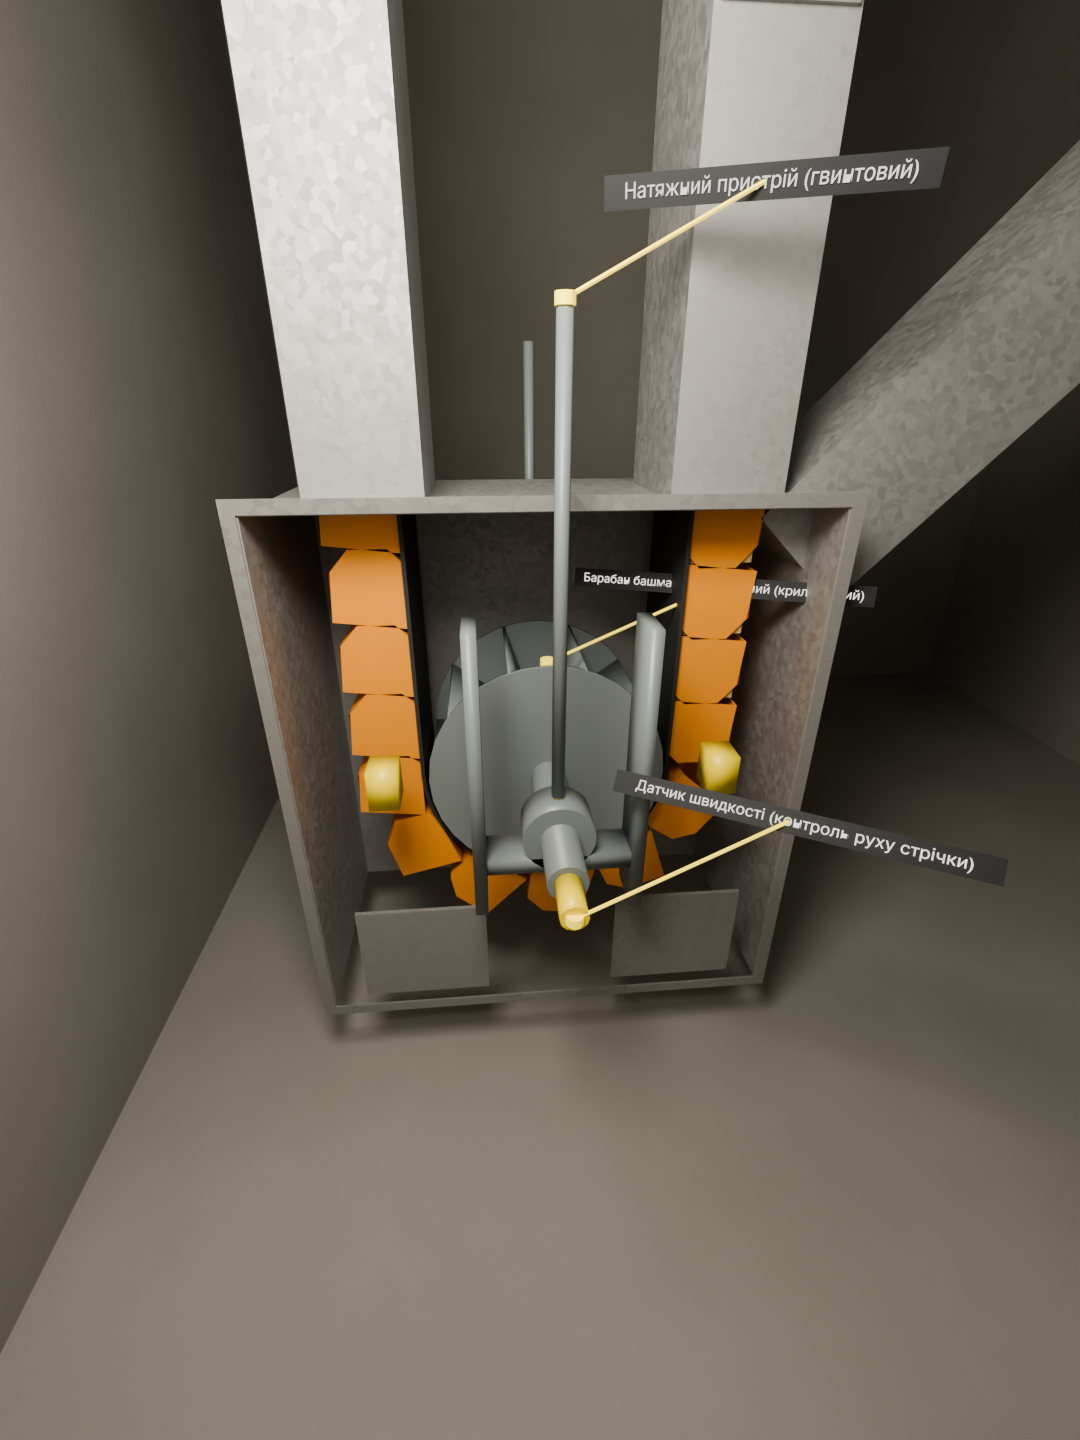
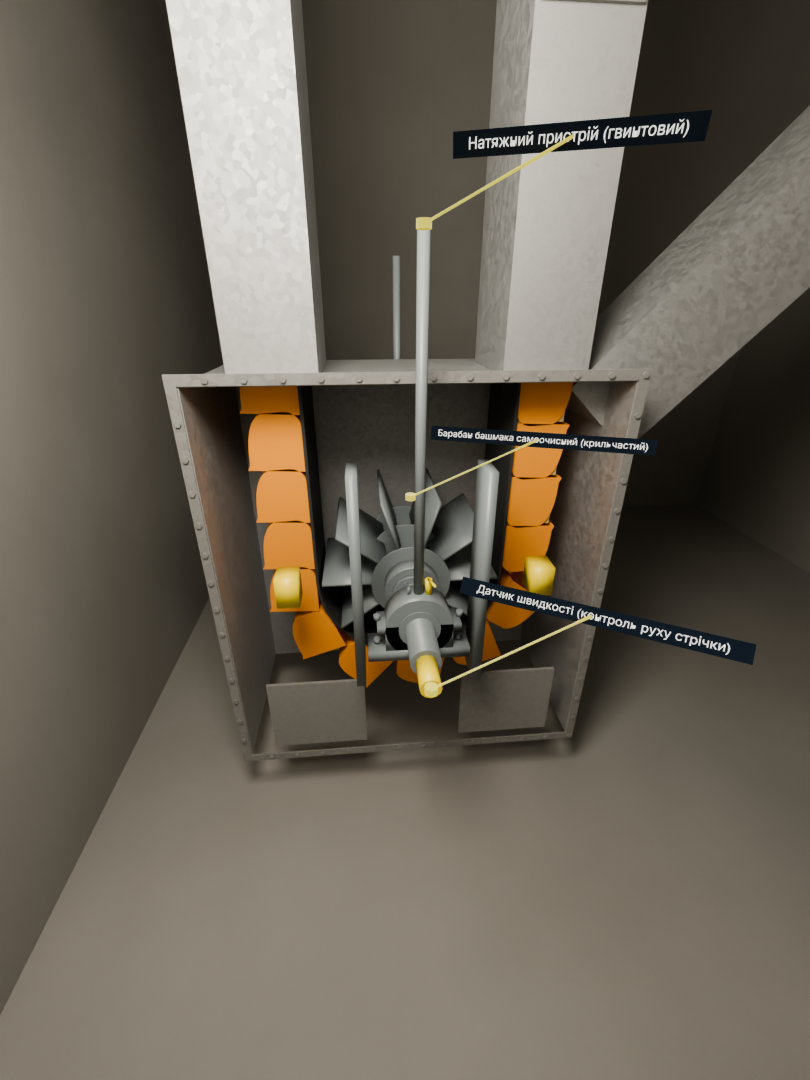
Noria detail pass: real bucket profile, hubs, plummer blocks, cover bolts, labels on top
Buckets get a CC-style profile (back, 50 mm bottom radius, sloped front,
rolled lip, 4 mm wall) with fang bolts; pulleys get end discs, hubs and
taper-lock bolts, the tail pulley a spider so the wings show; bearings
become split plummer blocks with feet, cap bolts, seals, grease nipple
and a cabled temperature sensor; M10 bolts ring the removable covers.
Labels are laid out in screen space and rendered in a second pass over
the frame, so geometry never hides them.

Claude-Session: https://claude.ai/code/session_01MY6Bgt3JVrL6PwgWiiCYXr

diff --git a/world/kit/noria_n100.py b/world/kit/noria_n100.py
@@ -31,7 +31,6 @@ BELT_R = PULLEY_R + LAGGING + BELT_T / 2          # belt centreline radius on th
 BUCKET_PITCH = 0.18
 BUCKET_W = 0.300
 BUCKET_T = 0.004
-BUCKET_PROFILE = np.array([(0.0, 0.19), (0.0, 0.03), (0.03, 0.0), (0.12, 0.0), (0.165, 0.05), (0.175, 0.17)])
 LEG_CLEAR_X = 0.256                               # across bucket projection
 LEG_CLEAR_Y = 0.376                               # across belt width
 LEG_SHEET = 0.002
@@ -110,27 +109,55 @@ def build_belt(path):
     return v, np.array(faces)
 
 
+def _bucket_profile(n_arc=8):
+    """Outer profile (u outward from the belt, v along travel) of a CC-style bucket:
+    straight back on the belt, radiused bottom, sloped front ending in a rolled lip."""
+    pts = [(0.0, 0.19), (0.0, 0.05)]
+    for a in np.linspace(math.pi, 1.5 * math.pi, n_arc)[1:]:                  # bottom radius 50 mm
+        pts.append((0.05 + 0.05 * math.cos(a), 0.05 + 0.05 * math.sin(a)))
+    p0, p1, p2 = np.array([0.10, 0.0]), np.array([0.172, 0.0]), np.array([0.172, 0.165])
+    for t in np.linspace(0, 1, n_arc)[1:]:                                     # sloped front
+        pts.append(tuple((1 - t) ** 2 * p0 + 2 * (1 - t) * t * p1 + t ** 2 * p2))
+    pts.append((0.180, 0.182))                                                  # rolled lip
+    return np.array(pts)
+
+
+def _offset_inward(prof, d):
+    """Offset an open polyline by d towards the inside of the bucket (left of travel)."""
+    out = []
+    for i in range(len(prof)):
+        a = prof[max(i - 1, 0)]
+        b = prof[min(i + 1, len(prof) - 1)]
+        t = (b - a) / np.linalg.norm(b - a)
+        n = np.array([t[1], -t[0]])                                            # right normal
+        out.append(prof[i] - n * d)
+    return np.array(out)
+
+
 def _bucket_local():
-    """Bucket shell in local (u outward, v along travel, w across), open at the top."""
-    prof = BUCKET_PROFILE
-    inner = prof + np.array([BUCKET_T, BUCKET_T])
-    inner[0, 1] = prof[0, 1]
-    inner[-1] = prof[-1] - np.array([BUCKET_T, 0.0])
+    """Bucket shell (4 mm) with end plates and two fang bolts on the back, open at the top."""
+    prof = _bucket_profile()
+    inner = _offset_inward(prof, BUCKET_T)
+    inner[0] = prof[0] + [BUCKET_T, 0.0]
     loop = np.concatenate([prof, inner[::-1]])
     k = len(loop)
     hw = BUCKET_W / 2
     verts = [(u, v, w) for w in (-hw, hw) for u, v in loop]
     faces = [c.grid_faces(2, k, wrap_cols=True)]
-    # end plates: full outer profile at both ends, BUCKET_T thick
     base = len(verts)
-    for w in (-hw, hw - BUCKET_T, hw, -hw + BUCKET_T):
-        verts += [(u, v, w) for u, v in prof]
     m = len(prof)
+    for w in (-hw, -hw + BUCKET_T, hw - BUCKET_T, hw):
+        verts += [(u, v, w) for u, v in prof]
     faces.append(np.arange(base, base + m)[None, :])
-    faces.append(np.arange(base + m, base + 2 * m)[None, :])
-    faces.append(np.arange(base + 2 * m, base + 3 * m)[::-1][None, :])
+    faces.append(np.arange(base + m, base + 2 * m)[::-1][None, :])
+    faces.append(np.arange(base + 2 * m, base + 3 * m)[None, :])
     faces.append(np.arange(base + 3 * m, base + 4 * m)[::-1][None, :])
-    return np.array(verts), faces
+    parts = [(np.array(verts), faces)]
+    for w in (-0.075, 0.075):                                                  # M8 fang bolt heads
+        parts.append(st.member((BUCKET_T, 0.13, w), (BUCKET_T + 0.005, 0.13, w),
+                               np.column_stack([0.008 * np.cos(np.arange(8) * math.pi / 4),
+                                                0.008 * np.sin(np.arange(8) * math.pi / 4)]), up=(0, 1, 0)))
+    return c.merge_parts(parts)
 
 
 def _grain_local():
@@ -235,32 +262,73 @@ def _housing(x0, x1, z0, z1, y_half, arc_top=None):
     return c.merge_parts(back), c.merge_parts(front), c.merge_parts(rim)
 
 
+SHAFT_R = 0.045                     # Ø90: 22 kW at 76 rpm is ~2.8 kN*m, EST
+HUB_R = 0.095
+
+
+def _hub(y, z, sign):
+    """Hub with a taper-lock bushing and 6 bolts, on the outside of an end disc."""
+    parts = [st.rod((CX, y, z), (CX, y + sign * 0.07, z), HUB_R, 32),
+             st.rod((CX, y + sign * 0.07, z), (CX, y + sign * 0.085, z), 0.07, 24)]
+    for k in range(6):
+        a = k * math.pi / 3
+        px, pz = CX + 0.055 * math.cos(a), z + 0.055 * math.sin(a)
+        parts.append(st.rod((px, y + sign * 0.085, pz), (px, y + sign * 0.095, pz), 0.008, 6))
+    return parts
+
+
 def _pulley(z, wing=False):
-    """Crowned drum with rubber lagging, or a self-cleaning wing pulley for the boot."""
+    """Head drum (crowned shell, end discs, hubs, lagging) or self-cleaning wing tail pulley."""
     lag, drum, shaft = [], [], []
-    y0, y1 = BELT_Y - BELT_W / 2 - 0.02, BELT_Y + BELT_W / 2 + 0.02
+    width = BELT_W + 0.05
+    y0, y1 = BELT_Y - width / 2, BELT_Y + width / 2
     if wing:
         for k in range(10):                                   # 10 radial wings, "squirrel cage"
             a = k * math.pi / 5
-            mid = np.array([CX + 0.75 * PULLEY_R * math.cos(a), z + 0.75 * PULLEY_R * math.sin(a)])
-            plate = np.array([(-0.004, -PULLEY_R * 0.25), (0.004, -PULLEY_R * 0.25),
-                              (0.004, PULLEY_R * 0.25), (-0.004, PULLEY_R * 0.25)])
+            mid = np.array([CX + 0.67 * PULLEY_R * math.cos(a), z + 0.67 * PULLEY_R * math.sin(a)])
+            plate = np.array([(-0.005, -PULLEY_R * 0.33), (0.005, -PULLEY_R * 0.33),
+                              (0.005, PULLEY_R * 0.33), (-0.005, PULLEY_R * 0.33)])
             drum.append(st.member(_to3(mid, y0), _to3(mid, y1), plate, up=(math.cos(a), 0.0, math.sin(a))))
-        for yy in (y0, y1):
-            drum.append(st.rod((CX, yy - 0.006, z), (CX, yy + 0.006, z), PULLEY_R, 32))
+        for yy in (y0, BELT_Y, y1):                           # spider plates: ends and middle
+            drum.append(st.rod((CX, yy - 0.006, z), (CX, yy + 0.006, z), 0.45 * PULLEY_R, 24))
     else:
-        drum.append(st.rod((CX, y0, z), (CX, y1, z), PULLEY_R, 48))
-        lag.append(st.rod((CX, y0 + 0.01, z), (CX, y1 - 0.01, z), PULLEY_R + LAGGING, 48))
-    shaft.append(st.rod((CX, BELT_Y - 0.62, z), (CX, BELT_Y + 0.62, z), 0.045, 20))
+        drum.append(st.rod((CX, y0, z), (CX, y1, z), PULLEY_R, 64))
+        lag.append(st.rod((CX, y0 + 0.012, z), (CX, y1 - 0.012, z), PULLEY_R + LAGGING, 64))
+        for yy in (y0, y1):
+            drum.append(st.rod((CX, yy - 0.012, z), (CX, yy + 0.012, z), PULLEY_R + 0.004, 64))
+    drum += _hub(y0, z, -1) + _hub(y1, z, 1)
+    shaft.append(st.rod((CX, BELT_Y - 0.62, z), (CX, BELT_Y + 0.62, z), SHAFT_R, 24))
     return c.merge_parts(drum), (c.merge_parts(lag) if lag else None), c.merge_parts(shaft)
 
 
 def _bearing(y, z):
-    """Pillow block with a temperature sensor on top."""
-    body = [c.box((CX - 0.17, y - 0.05, z - 0.09), (CX + 0.17, y + 0.05, z - 0.05)),
-            st.rod((CX, y - 0.05, z), (CX, y + 0.05, z), 0.085, 24)]
-    sensor = [st.rod((CX, y, z + 0.085), (CX, y, z + 0.13), 0.012, 10)]
+    """Split plummer block (SN-type) for a Ø90 shaft: base with feet and bolts, cap with
+    split bolts, seals, grease nipple, and a bearing temperature sensor on top. Sizes EST."""
+    h = 0.112                                                  # shaft centre above the base
+    body = [c.box((CX - 0.16, y - 0.05, z - h), (CX + 0.16, y + 0.05, z - h + 0.035)),         # base
+            c.box((CX - 0.105, y - 0.045, z - h + 0.035), (CX + 0.105, y + 0.045, z)),          # lower half
+            st.rod((CX, y - 0.045, z), (CX, y + 0.045, z), 0.105, 40),                          # cap
+            c.box((CX - 0.13, y - 0.045, z - 0.012), (CX + 0.13, y + 0.045, z + 0.012))]        # split lugs
+    for yy in (y - 0.05, y + 0.045):
+        body.append(st.rod((CX, yy, z), (CX, yy + 0.005, z), 0.065, 32))                         # seals
+    for x in (CX - 0.13, CX + 0.13):
+        body.append(st.rod((x, y, z - h + 0.035), (x, y, z - h + 0.052), 0.012, 6))            # foot bolts
+        body.append(st.rod((x, y, z + 0.012), (x, y, z + 0.030), 0.011, 6))                    # cap bolts
+    body.append(st.rod((CX + 0.03, y, z + 0.1), (CX + 0.03, y, z + 0.125), 0.005, 6))          # grease nipple
+    sensor = [st.rod((CX - 0.03, y, z + 0.1), (CX - 0.03, y, z + 0.15), 0.011, 10),
+              st.rod((CX - 0.03, y, z + 0.15), (CX - 0.03, y + 0.12, z + 0.2), 0.004, 6)]       # cable
     return body, sensor
+
+
+def _rim_bolts(x0, x1, z0, z1, y, step=0.10):
+    """M10 hex heads around a bolted cover flange (heads facing +Y)."""
+    pts = []
+    for x in np.arange(x0, x1 + 1e-6, step):
+        pts += [(x, z0), (x, z1)]
+    for zz in np.arange(z0 + step, z1 - step / 2, step):
+        pts += [(x0, zz), (x1, zz)]
+    hexp = np.column_stack([0.0092 * np.cos(np.arange(6) * math.pi / 3), 0.0092 * np.sin(np.arange(6) * math.pi / 3)])
+    return [st.member((px, y, pz), (px, y + 0.0064, pz), hexp, up=(0, 0, 1)) for px, pz in pts]
 
 
 def build(top_z, pit_z, phase=0.0):
@@ -293,7 +361,8 @@ def build(top_z, pit_z, phase=0.0):
     labels.append(("Вибухорозрядник голови", ((hx0 + hx1) / 2, BELT_Y, z_head + hood_r + 0.05)))
     parts["head"] = c.merge_parts([head_back] + throat)
     parts["head_cover"] = head_front
-    parts["head_rim"] = head_rim
+    parts["head_rim"] = c.merge_parts([head_rim] + _rim_bolts(hx0 - 0.015, hx1 + 0.015, leg_z1 - 0.015, z_head + 0.015,
+                                                              BELT_Y + 0.30 + 0.006))
     parts["head_spout"] = c.merge_parts(spout)
     parts["vent"] = c.merge_parts(vent)
     parts["pulley_drum"] = drum
@@ -347,7 +416,8 @@ def build(top_z, pit_z, phase=0.0):
                 c.box((bx1 - 0.45, BELT_Y + 0.30, pit_z + 0.3), (bx1 - 0.1, BELT_Y + 0.312, pit_z + 0.6))]
     parts["boot"] = c.merge_parts([boot_back] + inlet)
     parts["boot_cover"] = boot_front
-    parts["boot_rim"] = c.merge_parts([boot_rim] + cleanout)
+    parts["boot_rim"] = c.merge_parts([boot_rim] + cleanout + _rim_bolts(bx0 - 0.015, bx1 + 0.015, pit_z + 0.235,
+                                                                         leg_z0 + 0.015, BELT_Y + 0.30 + 0.006))
     parts["boot_pulley"] = wdrum
     parts["shafts"] = c.merge_parts([parts["shafts"], wshaft])
     parts["takeup"] = c.merge_parts(takeup)

diff --git a/world/kit/common.py b/world/kit/common.py
@@ -539,10 +539,20 @@ def face_labels(label_objs, cam, max_dist=7.0, lift=0.38):
                 pos -= right * half_w * 0.25
             else:
                 break
-        for q in placed:                              # push apart labels that would overlap on screen
-            if (pos - q).length < 0.22 * scale:
-                pos += up * 0.2 * scale
-        placed.append(pos)
+        half_h = 0.06 * 1.6 / 2 * scale
+
+        def rect(p):
+            a = world_to_camera_view(scene, cam, p - right * half_w - up * half_h)
+            b = world_to_camera_view(scene, cam, p + right * half_w + up * half_h)
+            return min(a.x, b.x), max(a.x, b.x), min(a.y, b.y), max(a.y, b.y)
+
+        for _ in range(20):                           # step up on screen until it clears placed labels
+            r = rect(pos)
+            hit = any(r[0] < q[1] and q[0] < r[1] and r[2] < q[3] + 0.006 and q[2] - 0.006 < r[3] for q in placed)
+            if not hit:
+                break
+            pos += up * half_h * 2.4
+        placed.append(rect(pos))
         o.location = root.matrix_world.inverted() @ pos
         o.scale = (scale, scale, scale)
         o.rotation_euler = (cam_m.translation - pos).to_track_quat("Z", "Y").to_euler()
@@ -564,3 +574,38 @@ def face_labels(label_objs, cam, max_dist=7.0, lift=0.38):
         for i, vtx in enumerate(lead.data.vertices[:12]):
             vtx.co = verts[i]
         lead.data.update()
+
+
+def render_with_labels(scene, cam, path, label_objs):
+    """Render the scene without labels, then only the labels on a transparent film,
+    and lay the labels over the frame so geometry never hides them."""
+    import os
+
+    from PIL import Image
+
+    path = str(path)
+    tmp_main, tmp_lbl = path + ".main.png", path + ".labels.png"
+    label_set = {o.name for o in label_objs}
+    label_parts = [o for o in label_objs if o.type != "EMPTY"]
+    shown = [o for o in label_parts if not o.hide_render]
+    for o in label_parts:
+        o.hide_render = True
+    render(scene, cam, tmp_main)
+    others = [o for o in scene.objects if o.name not in label_set and o.type != "CAMERA" and not o.hide_render]
+    for o in others:
+        o.hide_render = True
+    for o in shown:
+        o.hide_render = False
+    old = (scene.render.film_transparent, scene.cycles.samples, scene.render.image_settings.color_mode)
+    scene.render.film_transparent = True
+    scene.cycles.samples = 16
+    scene.render.image_settings.color_mode = "RGBA"
+    render(scene, cam, tmp_lbl)
+    scene.render.film_transparent, scene.cycles.samples, scene.render.image_settings.color_mode = old
+    for o in others:
+        o.hide_render = False
+    base = Image.open(tmp_main).convert("RGBA")
+    top = Image.open(tmp_lbl).convert("RGBA")
+    Image.alpha_composite(base, top).convert("RGB").save(path)
+    os.remove(tmp_main)
+    os.remove(tmp_lbl)

diff --git a/world/kit/noria_tower.py b/world/kit/noria_tower.py
@@ -174,7 +174,7 @@ def build(spec, collection=None, materials=None):
     sensor = m.get("sensor") or c.mat_painted("SENSOR_YELLOW", (0.9, 0.7, 0.05), 0.4, grime=0.1)
     parts, labels, noria_measure, anchors = nn.build(top_z, pit_z)
     look = {
-        "belt": (rubber, False), "buckets": (bucket, False), "grain": (grain, False),
+        "belt": (rubber, False), "buckets": (bucket, "quads"), "grain": (grain, False),
         "legs": (galv, False), "leg_flanges": (galv_old, False), "leg_bolts": (galv_old, "quads"),
         "leg_doors": (galv_old, False), "head": (galv, False), "head_cover": (galv, False),
         "head_rim": (galv_old, False), "head_spout": (galv, "quads"), "vent": (dark, False),

diff --git a/world/build/k2b_noria.py b/world/build/k2b_noria.py
@@ -67,7 +67,7 @@ def main():
         bpy.context.view_layer.update()
         c.face_labels(labels, cam)
         t = time.time()
-        c.render(scene, cam, OUT / name)
+        c.render_with_labels(scene, cam, OUT / name, labels)
         print("rendered", name, round(time.time() - t, 1), "s", flush=True)
         if lamp_obj:
             bpy.data.objects.remove(lamp_obj)
